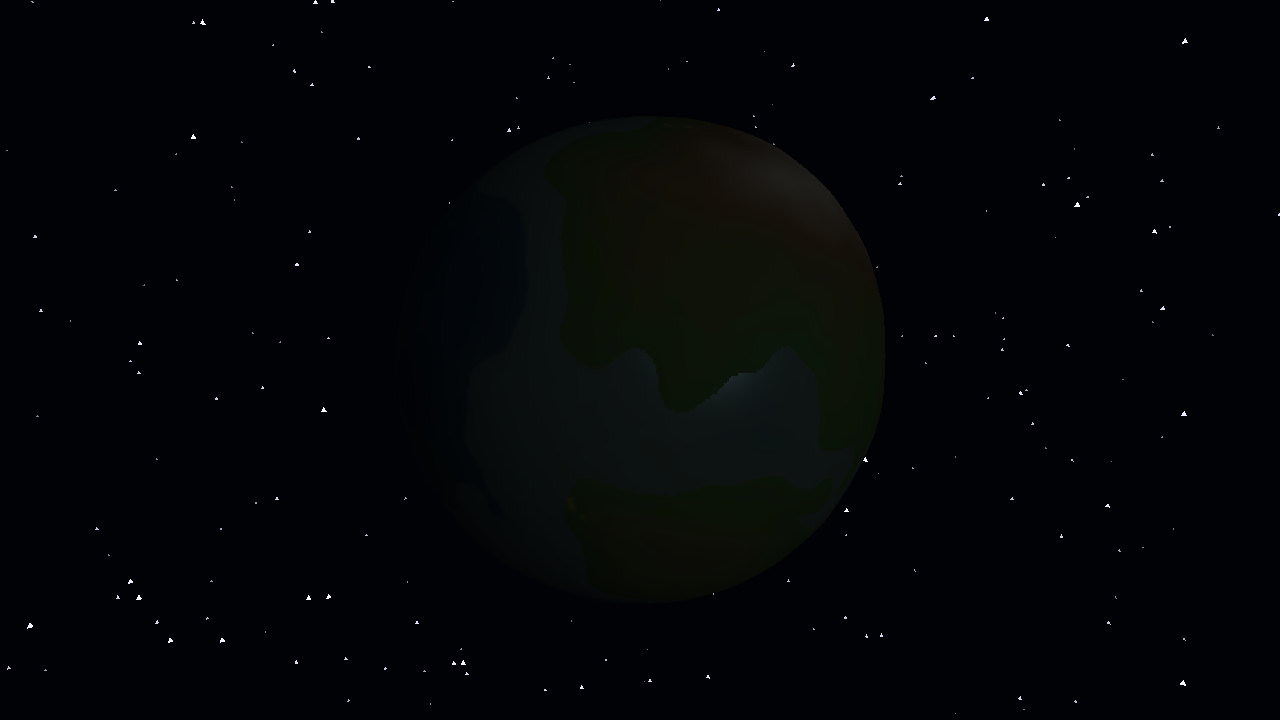
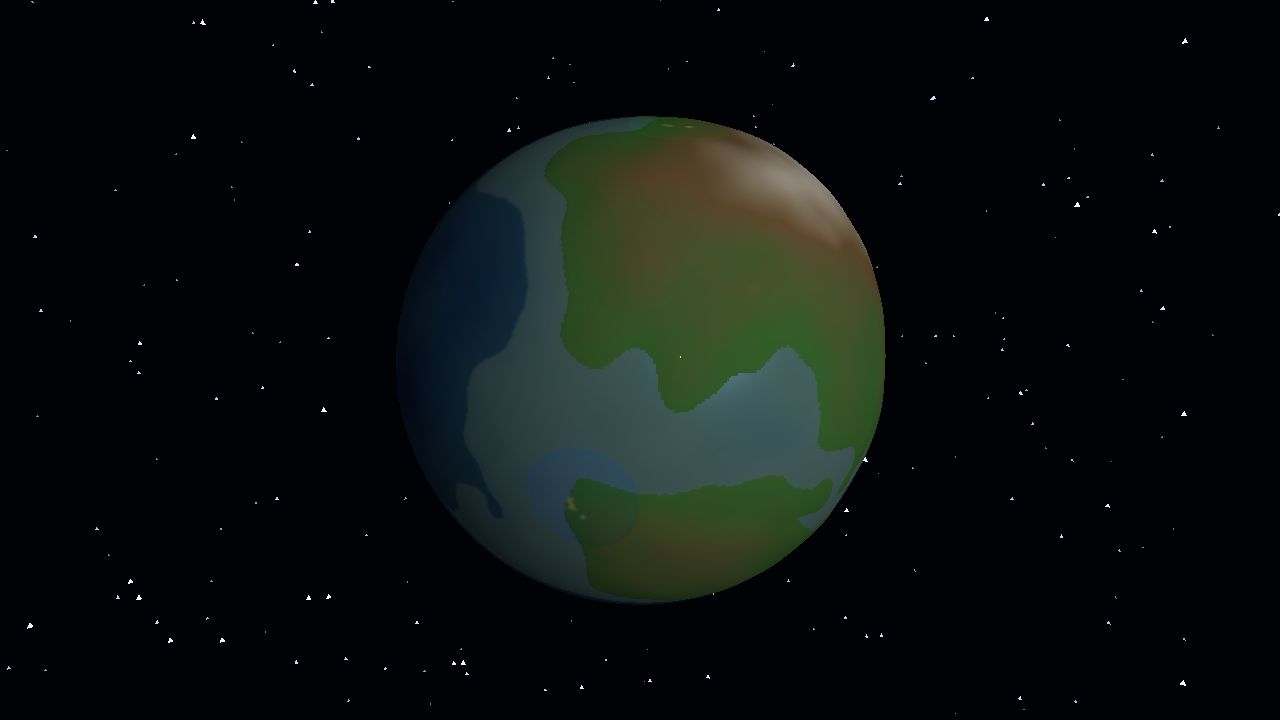
Reveal the home planet's terrain at start and lighten fog of war
Per the world model, each player knows its home planet's terrain before
the space age; units and buildings stay hidden until seen. Adds
World::reveal_terrain and calls it in the sphere match setup. Fog
shading is lighter (unexplored 0.32, out of view 0.72) and territory
tint stronger, so the planet is readable from orbit. Version 0.0.26.

Changed region(s): [[0.3125, 0.1528, 0.7188, 0.8556]]

diff --git a/app/crates/rom-app/src/match_setup.rs b/app/crates/rom-app/src/match_setup.rs
@@ -241,6 +241,11 @@ pub fn build_sphere_match(
             city_pos,
         )?);
     }
+    // The world model: before the space age each player knows the terrain of its home planet.
+    // Units and buildings stay hidden until they are seen.
+    for &player in &starts_players(&world) {
+        world.reveal_terrain(player);
+    }
     Ok(Match {
         world,
         starts,
@@ -305,6 +310,15 @@ fn ring_position(world: &World, centre: Pos, angle: f64, reach: f64) -> Pos {
         }
     }
     centre
+}
+
+/// Every non-neutral player of the world, in id order.
+fn starts_players(world: &World) -> Vec<PlayerId> {
+    world
+        .players()
+        .map(|p| p.id)
+        .filter(|id| *id != NEUTRAL)
+        .collect()
 }
 
 #[cfg(test)]
@@ -477,6 +491,11 @@ mod tests {
         let city = city_type(rules).expect("a city type");
         let side = 128 * 1000;
         assert_eq!(setup.starts.len(), 4);
+        // Every player knows the home planet's terrain from the start.
+        for start in &setup.starts {
+            assert!(world.is_explored_on(start.player, 3, 0, 0));
+            assert!(world.is_explored_on(start.player, 5, 10, 10));
+        }
         for start in &setup.starts {
             let entity = world.entity(start.city).expect("city");
             assert_eq!(entity.pos, start.city_pos);

diff --git a/app/crates/rom-sim/src/vision/tests.rs b/app/crates/rom-sim/src/vision/tests.rs
@@ -247,3 +247,26 @@ fn remembered_building_persists_in_fog_until_seen_again() {
     assert!(memory(&w).is_empty());
     assert!(w.remembered_buildings(P1).next().is_none());
 }
+
+#[test]
+fn reveal_terrain_explores_every_tile_but_shows_no_enemy() {
+    // 37 × 37 tiles: the tile count is not a multiple of 64, so the last word is partial.
+    let mut w = world("", 37);
+    let foe = spawn(&mut w, "unit.spearman", P2, at(30_500, 30_500));
+    w.reveal_terrain(P1);
+    for y in 0..37 {
+        for x in 0..37 {
+            assert!(w.is_explored(P1, x, y));
+            assert!(!w.is_visible(P1, x, y));
+        }
+    }
+    assert!(!w.is_explored(P2, 0, 0));
+    assert!(
+        w.visible_entities(P1)
+            .iter()
+            .all(|s| !matches!(s, Sighting::Live(e) if e.id == foe))
+    );
+    let hash = w.hash();
+    w.reveal_terrain(P1);
+    assert_eq!(w.hash(), hash, "revealing twice changes nothing");
+}

diff --git a/app/crates/rom-sim/src/vision.rs b/app/crates/rom-sim/src/vision.rs
@@ -158,6 +158,23 @@ impl World {
         })
     }
 
+    /// Marks every tile of the map explored for `player`: its terrain is known, while units and
+    /// buildings stay hidden until seen. The world model gives each player the terrain of the
+    /// home planet from the start.
+    pub fn reveal_terrain(&mut self, player: PlayerId) {
+        self.ensure_vision(player);
+        let tiles = self.map.terrain.len();
+        if let Some(vision) = self.vision.players.get_mut(&player) {
+            vision.explored.fill(u64::MAX);
+            let spare = vision.explored.len() * 64 - tiles;
+            if spare > 0
+                && let Some(last) = vision.explored.last_mut()
+            {
+                *last >>= spare;
+            }
+        }
+    }
+
     pub(crate) fn ensure_vision(&mut self, player: PlayerId) {
         let tiles = self.map.terrain.len();
         self.vision

diff --git a/app/crates/rom-render/src/vision.rs b/app/crates/rom-render/src/vision.rs
@@ -12,13 +12,13 @@ pub const EXPLORED: u8 = 1;
 pub const VISIBLE: u8 = 2;
 
 /// Brightness of an unexplored tile.
-const UNEXPLORED_LIGHT: f32 = 0.16;
+const UNEXPLORED_LIGHT: f32 = 0.32;
 /// Brightness of an explored tile that is not in view.
-const EXPLORED_LIGHT: f32 = 0.62;
+const EXPLORED_LIGHT: f32 = 0.72;
 /// How strongly a border tile takes its owner's colour.
 const BORDER_TINT: f32 = 0.8;
 /// How strongly the inside of a territory takes its owner's colour.
-const TERRITORY_TINT: f32 = 0.25;
+const TERRITORY_TINT: f32 = 0.35;
 
 /// Visibility and borders of every tile, in the simulation's dense order: row `y` of `width`
 /// tiles, where a sphere of `n` tiles per face edge is `n` wide and `6 n` high (face after face).

diff --git a/app/crates/rom-app/src/sim_thread.rs b/app/crates/rom-app/src/sim_thread.rs
@@ -656,7 +656,9 @@ mod tests {
         assert_eq!(map.state[at], VISIBLE);
         assert_eq!(u32::from(map.owner[at]), PLAYER.0);
         assert!(map.border.iter().any(|b| *b), "borders are marked");
-        // Far from every player the tiles are dark.
-        assert!(map.state.iter().filter(|s| **s == UNEXPLORED).count() > map.state.len() / 2);
+        // The home planet's terrain is known from the start, so nothing is unexplored; most
+        // tiles are out of view.
+        assert_eq!(map.state.iter().filter(|s| **s == UNEXPLORED).count(), 0);
+        assert!(map.state.iter().filter(|s| **s == EXPLORED).count() > map.state.len() / 2);
     }
 }
